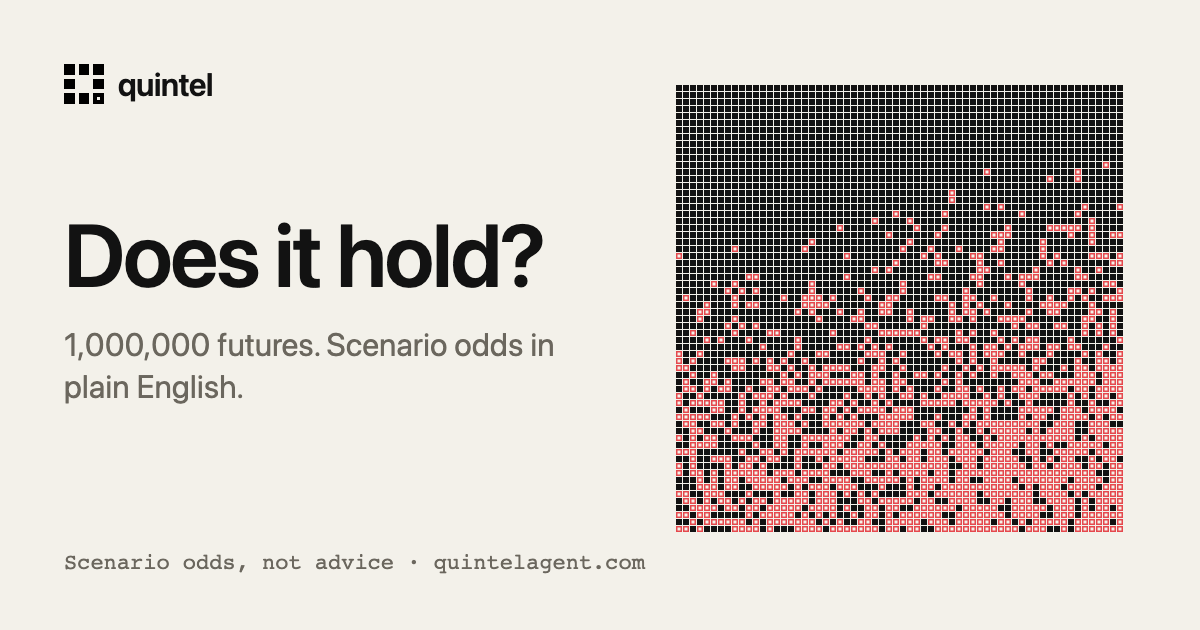
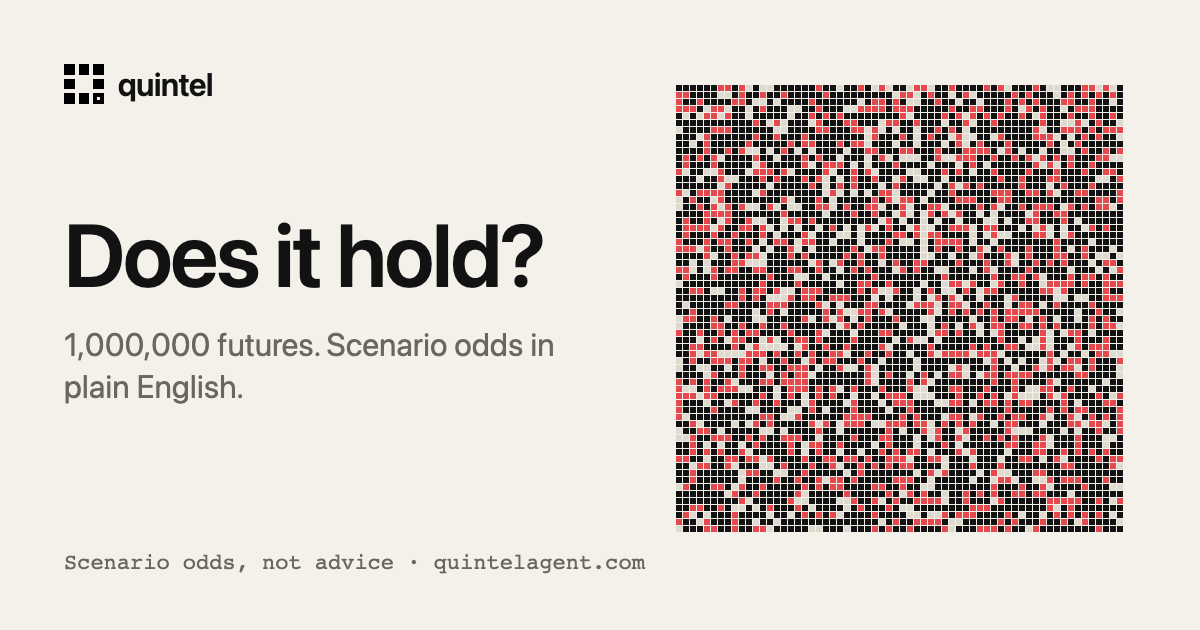
Site: share image matches the new grid

Changed region(s): [[0.555, 0.1206, 0.9558, 0.8444]]

diff --git a/web/scripts/og.html b/web/scripts/og.html
@@ -1,5 +1,5 @@
 <!doctype html><meta charset="utf-8"><style>
-:root{--paper:#F3F1EA;--ink:#121212;--ink-2:#6B675E;--risk:#E5484D}
+:root{--paper:#F3F1EA;--ink:#121212;--ink-2:#6B675E;--risk:#E5484D;--line:#DEDAD0}
 *{margin:0;box-sizing:border-box}body{width:1200px;height:630px;background:var(--paper);color:var(--ink);font-family:-apple-system,BlinkMacSystemFont,Inter,system-ui,sans-serif;padding:64px;position:relative}
 .top{display:flex;align-items:center;gap:14px;font-size:32px;font-weight:600;letter-spacing:-.02em}
 h1{font-size:88px;font-weight:600;letter-spacing:-.02em;line-height:1.05;margin-top:104px;width:560px}
@@ -9,7 +9,7 @@ canvas{position:absolute;right:64px;top:85px;width:460px;height:460px}
 </style><div class="top"><svg width="40" height="40" viewBox="0 0 11 11" shape-rendering="crispEdges"><path d="M0 0h3v3H0zM4 0h3v3H4zM8 0h3v3H8zM0 4h3v3H0zM8 4h3v3H8zM0 8h3v3H0zM4 8h3v3H4z"/><path fill-rule="evenodd" d="M8 8h3v3H8zM9 9v1h1V9z"/></svg>quintel</div>
 <h1>Does it hold?</h1><p>1,000,000 futures. Scenario odds in plain English.</p><div class="f">Scenario odds, not advice · quintelagent.com</div>
 <canvas width="920" height="920"></canvas><script>
-const n=64,c=document.querySelector('canvas'),x=c.getContext('2d'),p=Math.floor(920/n),s=p-2;let a=87;const r=()=>{a=(a+0x6d2b79f5)>>>0;let t=a;t=Math.imul(t^t>>>15,t|1);t^=t+Math.imul(t^t>>>7,t|61);return((t^t>>>14)>>>0)/4294967296};
-const sc=[...Array(n*n).keys()].map(i=>[.62*Math.floor(i/n)/(n-1)+.18*(i%n)/(n-1)+.62*r(),i]).sort((a,b)=>b[0]-a[0]);const lost=new Set(sc.slice(0,Math.round(n*n*.3)).map(v=>v[1]));
-const st=getComputedStyle(document.documentElement);for(let i=0;i<n*n;i++){const X=(i%n)*p,Y=Math.floor(i/n)*p,l=lost.has(i);x.fillStyle=st.getPropertyValue(l?'--risk':'--ink');x.fillRect(X,Y,s,s);if(l)x.clearRect(X+3,Y+3,s-6,s-6)}
+const n=64,c=document.querySelector('canvas'),x=c.getContext('2d'),p=Math.floor(922/n),g=2;let a=87;const r=()=>{a=(a+0x6d2b79f5)>>>0;let t=a;t=Math.imul(t^t>>>15,t|1);t^=t+Math.imul(t^t>>>7,t|61);return((t^t>>>14)>>>0)/4294967296};
+const N=n*n,fill=N-Math.round(N*.15),k=Math.round(fill*.7),s=new Uint8Array(N);s.fill(1,0,k);s.fill(2,k,fill);for(let i=N-1;i>0;i--){const j=Math.floor(r()*(i+1));[s[i],s[j]]=[s[j],s[i]]}
+const st=getComputedStyle(document.documentElement),col=['--line','--ink','--risk'].map(v=>st.getPropertyValue(v));s.forEach((v,i)=>{x.fillStyle=col[v];x.fillRect((i%n)*p,Math.floor(i/n)*p,p-g,p-g)})
 </script>
